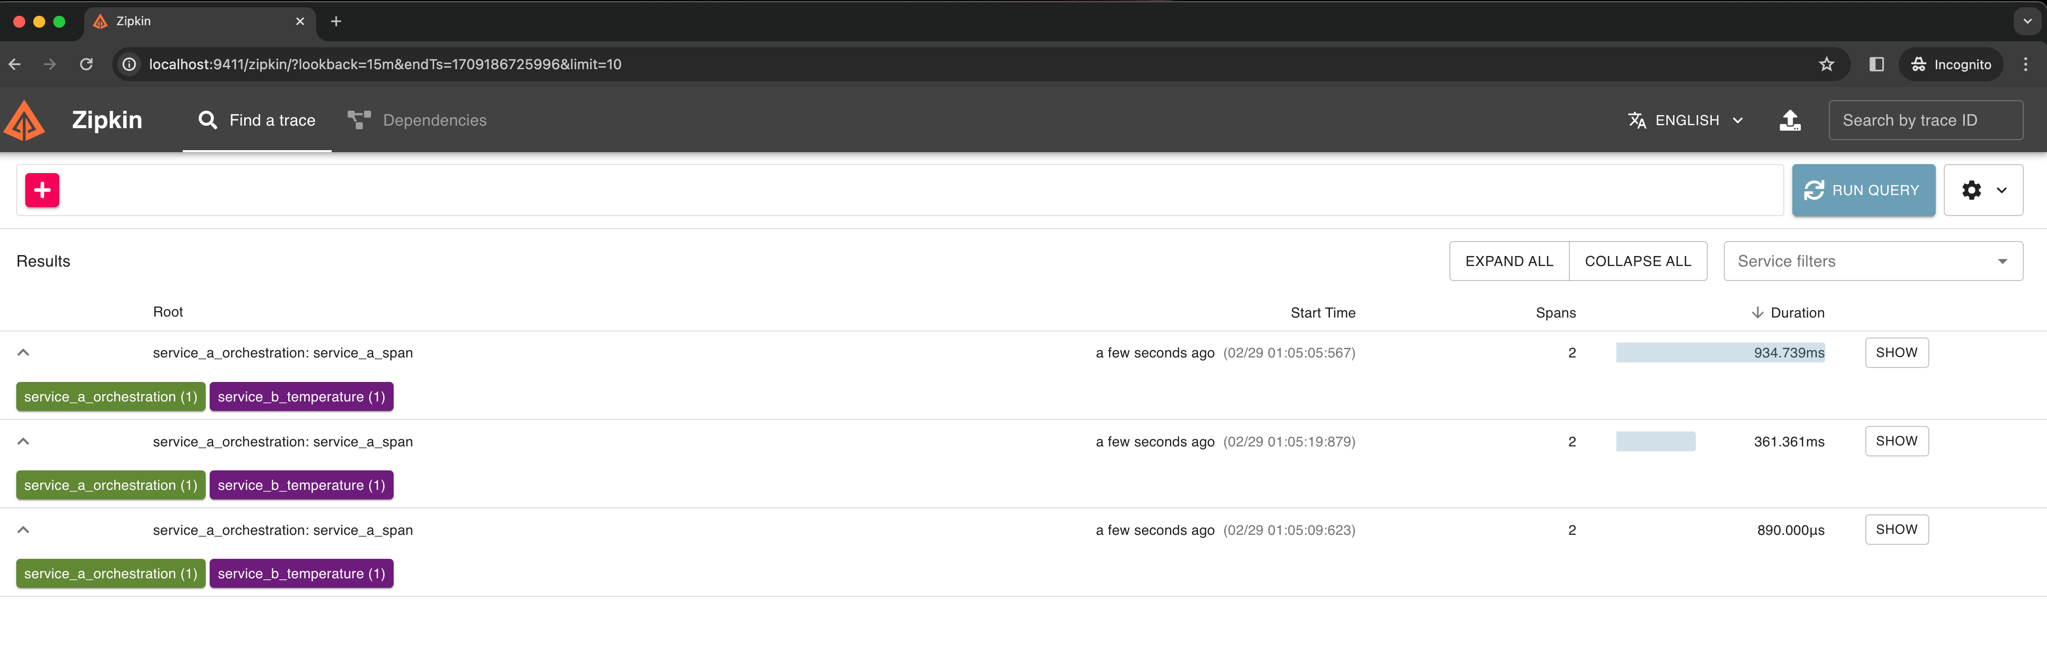
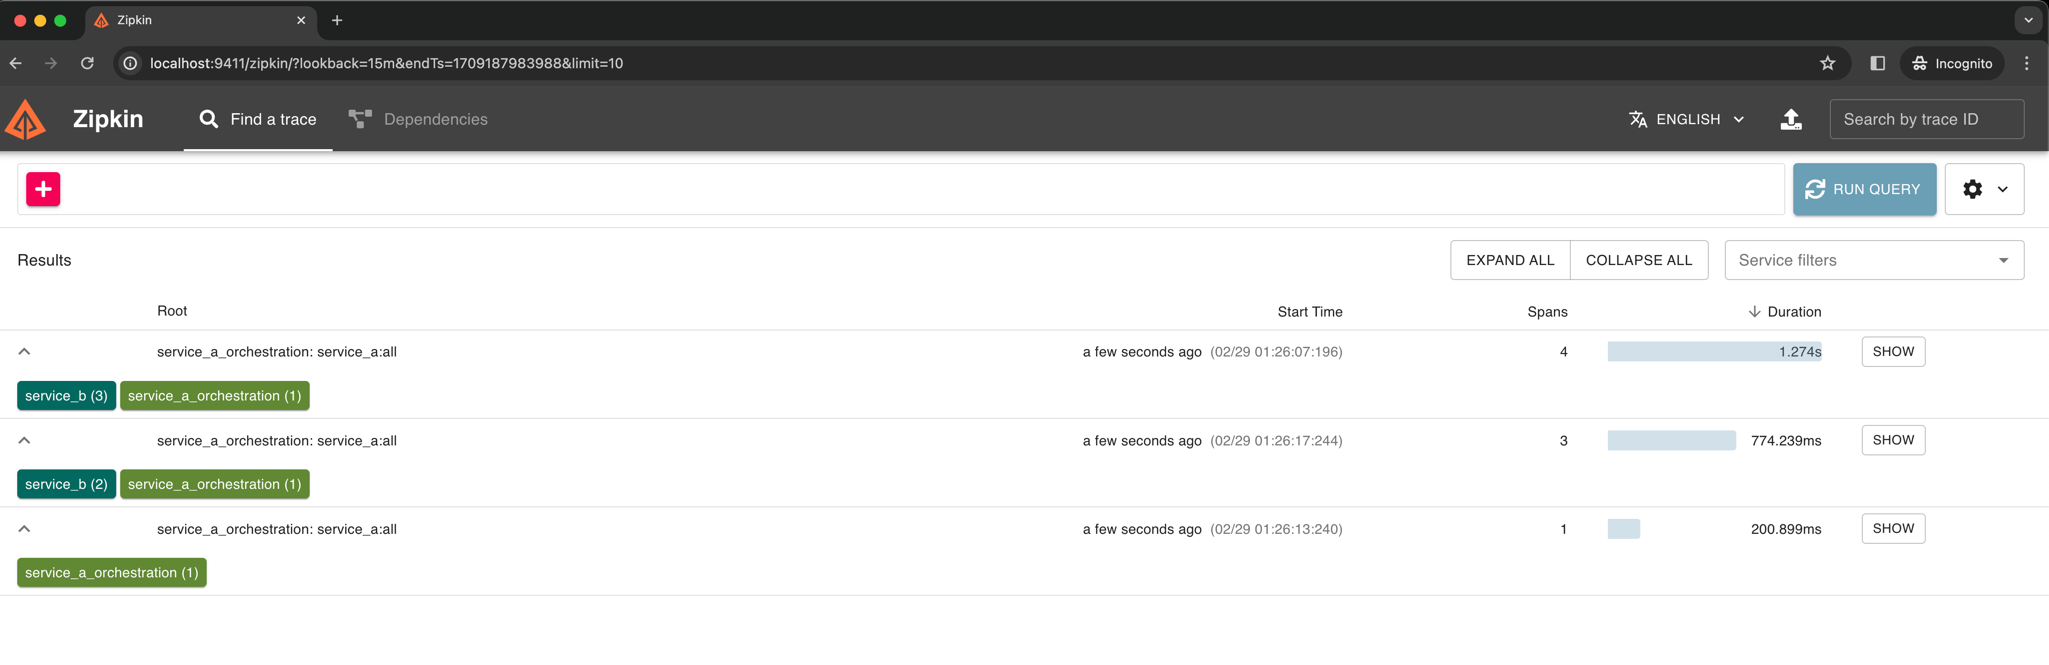
Adding new SPANS

diff --git a/cmd/service_b/main.go b/cmd/service_b/main.go
@@ -23,23 +23,23 @@ func main() {
 	viperCfg := config.NewViper("env.json")
 	viperCfg.ReadViper(&cfg)
 
-	gw := usecase.NewGetWeather(
-		api.NewCEPFromAPI(&cfg),
-		api.NewWeatherFromAPI(&cfg),
-	)
-
 	sigCh := make(chan os.Signal, 1)
 	signal.Notify(sigCh, os.Interrupt)
 	ctx, cancel := signal.NotifyContext(context.Background(), os.Interrupt)
 	defer cancel()
 
 	providerShutdown, provErr := opentel.InitProvider(
-		"service_b_temperature",
+		"service_b",
 		cfg.Zipkin.Endpoint,
 	)
 	if provErr != nil {
 		return
 	}
+
+	gw := usecase.NewGetWeather(
+		api.NewCEPFromAPI(&cfg),
+		api.NewWeatherFromAPI(&cfg),
+	)
 
 	defer func() {
 		if err := providerShutdown(ctx); err != nil {
@@ -55,8 +55,8 @@ func main() {
 			hCtx := r.Context()
 			hCtx = otel.GetTextMapPropagator().Extract(hCtx, carrier)
 
-			tracer := otel.Tracer("serviceB")
-			_, span := tracer.Start(hCtx, "service_b_span")
+			tracer := otel.Tracer("service_b")
+			_, span := tracer.Start(hCtx, "service_b:all")
 			defer span.End()
 
 			temperature, execErr := gw.Execute(hCtx, dto.LocationInput{

diff --git a/internal/inputhandle/infra/web/route.go b/internal/inputhandle/infra/web/route.go
@@ -19,6 +19,7 @@ func (gr *Server) temperature(writer http.ResponseWriter, request *http.Request)
 
 	ctx, spanFn := gr.TemplateData.OTELTracer.Start(ctx, gr.TemplateData.RequestNameOtel)
 	defer spanFn.End()
+	time.Sleep(time.Millisecond * 200)
 
 	bodyBytes, readErr := io.ReadAll(request.Body)
 	if readErr != nil {
@@ -29,6 +30,11 @@ func (gr *Server) temperature(writer http.ResponseWriter, request *http.Request)
 	var location dto.LocationInput
 	if unmErr := json.Unmarshal(bodyBytes, &location); unmErr != nil {
 		http.Error(writer, "Error parsing JSON", http.StatusBadRequest)
+		return
+	}
+
+	if err := entity.CEPValidation(location.CEP); err != nil {
+		http.Error(writer, err.Error(), http.StatusUnprocessableEntity)
 		return
 	}
 

diff --git a/internal/temperature/infra/api/get_weather.go b/internal/temperature/infra/api/get_weather.go
@@ -6,6 +6,8 @@ import (
 	"encoding/json"
 	"fmt"
 	"github.com/kenesparta/fullcycle-distr-trace-span/config"
+	"go.opentelemetry.io/otel"
+	"go.opentelemetry.io/otel/propagation"
 	"io"
 	"net/http"
 	"net/url"
@@ -31,6 +33,11 @@ func NewWeatherFromAPI(cnf *config.Config) *WeatherFromAPI {
 }
 
 func (wap *WeatherFromAPI) Get(ctx context.Context, location string) (entity.Temperature, error) {
+	hCtx := otel.GetTextMapPropagator().Extract(ctx, propagation.HeaderCarrier{})
+	tracer := otel.Tracer("serviceBGetWeather")
+	_, span := tracer.Start(hCtx, "service_b:get_weather")
+	defer span.End()
+
 	u, urlErr := url.Parse(createWeatherEndpoint(wap.cnf.Temperature.URL))
 	if urlErr != nil {
 		fmt.Printf("Error parsing URL: %s\n", urlErr)

diff --git a/internal/temperature/infra/api/get_cep.go b/internal/temperature/infra/api/get_cep.go
@@ -5,6 +5,8 @@ import (
 	"crypto/tls"
 	"encoding/json"
 	"github.com/kenesparta/fullcycle-distr-trace-span/config"
+	"go.opentelemetry.io/otel"
+	"go.opentelemetry.io/otel/propagation"
 	"io"
 	"net/http"
 	"strings"
@@ -30,6 +32,11 @@ func NewCEPFromAPI(cnf *config.Config) *CEPFromAPI {
 
 func (cap *CEPFromAPI) Get(ctx context.Context, cep string) (entity.Location, error) {
 	ctx, cancel := context.WithTimeout(ctx, 10*time.Second)
+	hCtx := otel.GetTextMapPropagator().Extract(ctx, propagation.HeaderCarrier{})
+	tracer := otel.Tracer("serviceBGetCEP")
+	_, span := tracer.Start(hCtx, "service_b:get_CEP")
+	defer span.End()
+	time.Sleep(time.Millisecond * 200)
 	defer cancel()
 
 	req, reqErr := http.NewRequestWithContext(

diff --git a/cmd/service_a/main.go b/cmd/service_a/main.go
@@ -39,7 +39,7 @@ func main() {
 		TemplateData: web.TemplateData{
 			Title:           "Service A: Orchestration",
 			ExternalCallURL: cfg.ServiceB.Host,
-			RequestNameOtel: "service_a_span",
+			RequestNameOtel: "service_a:all",
 			OTELTracer:      otel.Tracer("service_a"),
 		},
 	}
